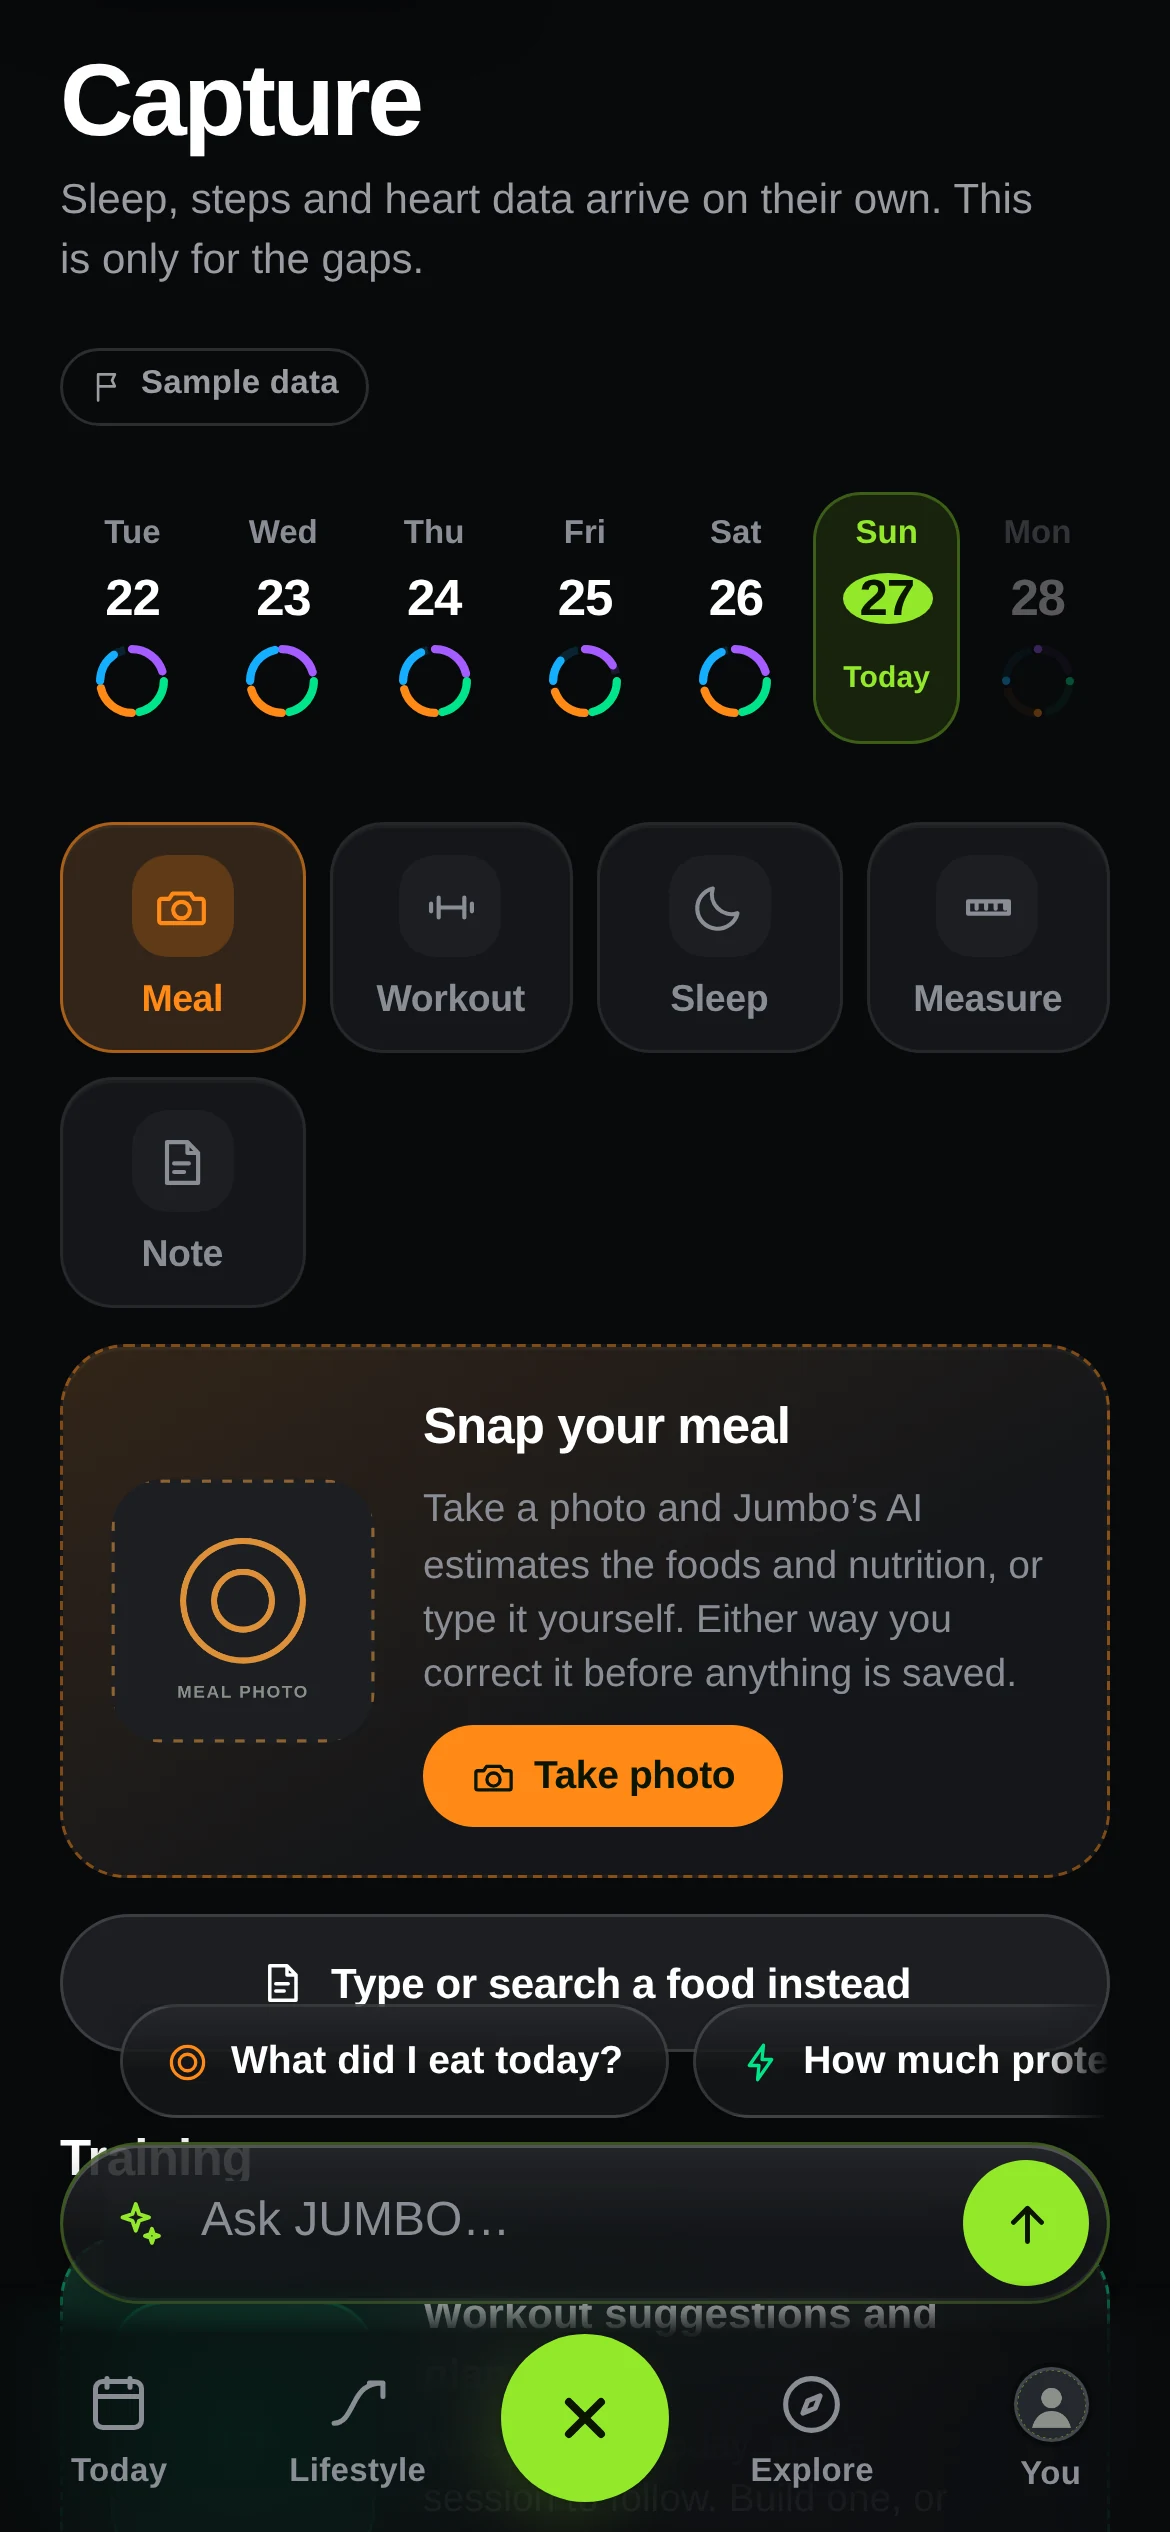
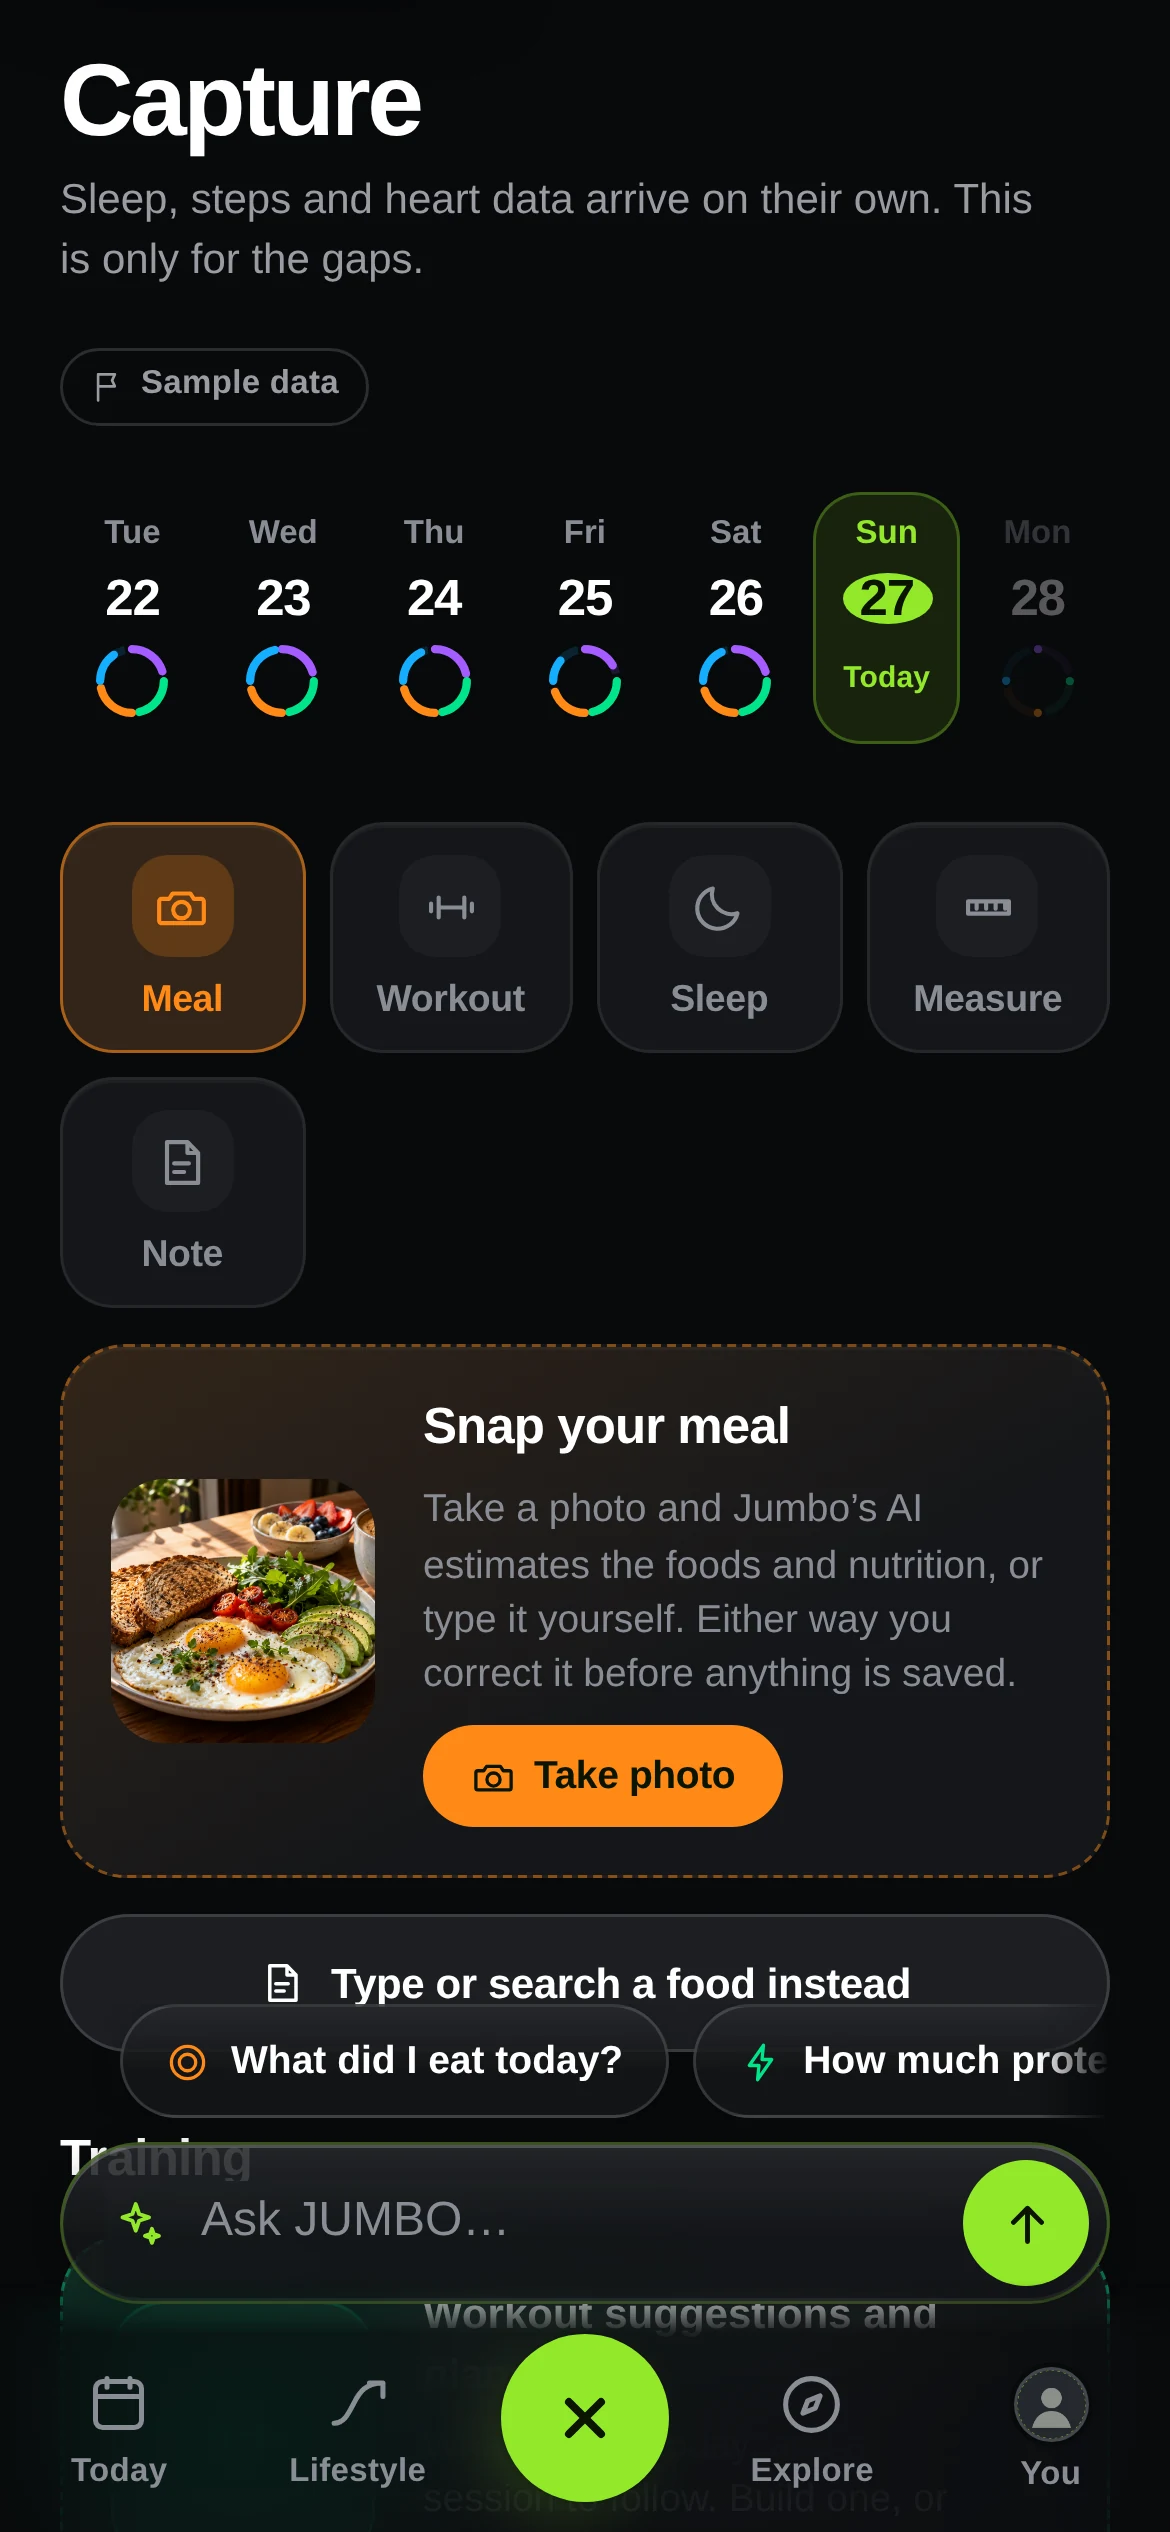
JUMBO page: real meal photo on the Capture screen
Sam's breakfast photo now fills the app's meal artwork slot in the
"Snap your meal" card, re-captured from the real app. Updated in the
How it works Capture step and in the hero composition.

Claude-Session: https://claude.ai/code/session_01Jfo4YiUXPoq1QTHMtNJNaB

Changed region(s): [[0.0923, 0.5616, 0.3385, 0.6864]]

diff --git a/public/assets/jumbo/README.md b/public/assets/jumbo/README.md
@@ -18,7 +18,7 @@ from the live app.
 | Health Overview | `jumbo-health-overview.webp` | 1060×662 | 16:10 | 2400×1500 | Real desktop web Today |
 | Today | `jumbo-today-ui.webp` | 340×736 | phone | 1170×2532 | Real |
 | AI Future | `jumbo-ai-future-ui.webp` | 340×736 | phone | 1170×2532 | Real, "Sleep more consistently", 5 years |
-| How it works: Capture | `jumbo-capture-ui.webp` | 320×693 | phone | 1170×2532 | Real |
+| How it works: Capture | `jumbo-capture-ui.webp` | 283×612 | phone | 1170×2532 | Real, with Sam's meal photo in the "Snap your meal" slot |
 | How it works: Connect | `jumbo-connect-ui.webp` | 283×612 | phone | 1170×2532 | Real: Connected sources |
 | How it works: Understand | `jumbo-understand-ui.webp` | 283×612 | phone | 1170×2532 | Real: Sleep detail, last 21 days |
 | How it works: Improve | `jumbo-improve-ui.webp` | 283×612 | phone | 1170×2532 | Real: Training, "Take today off" |
